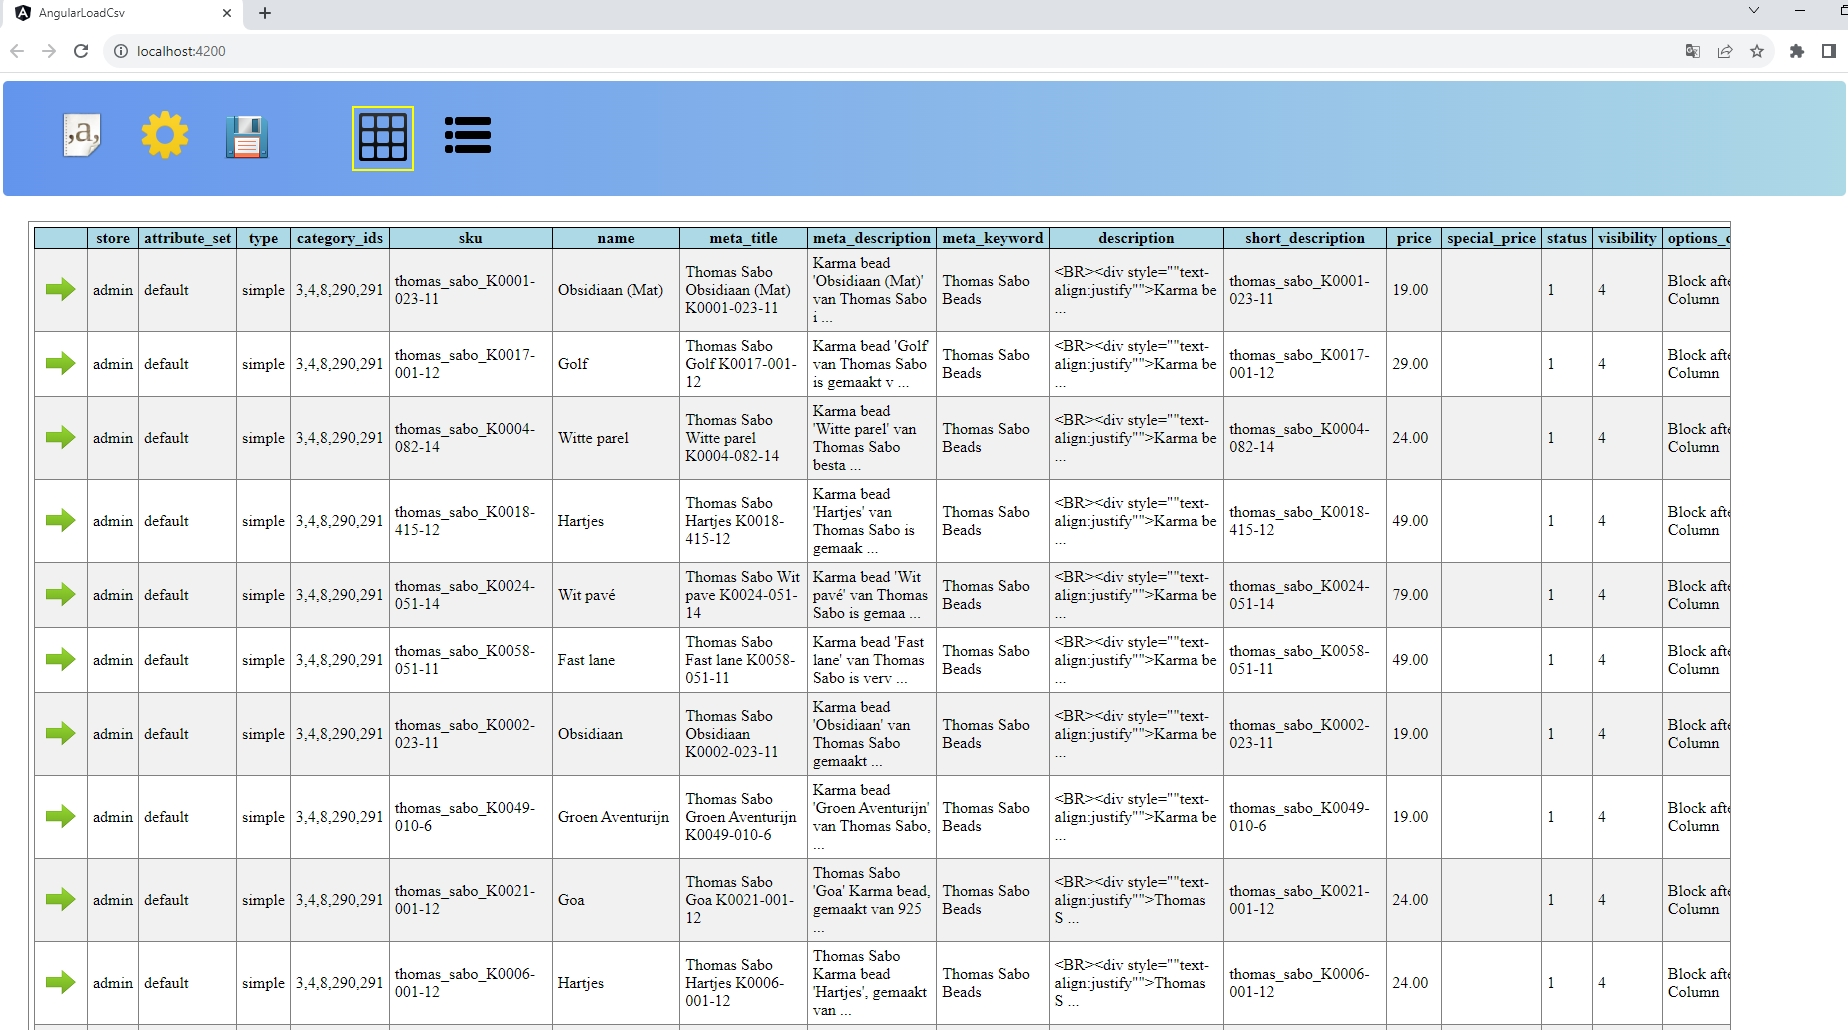
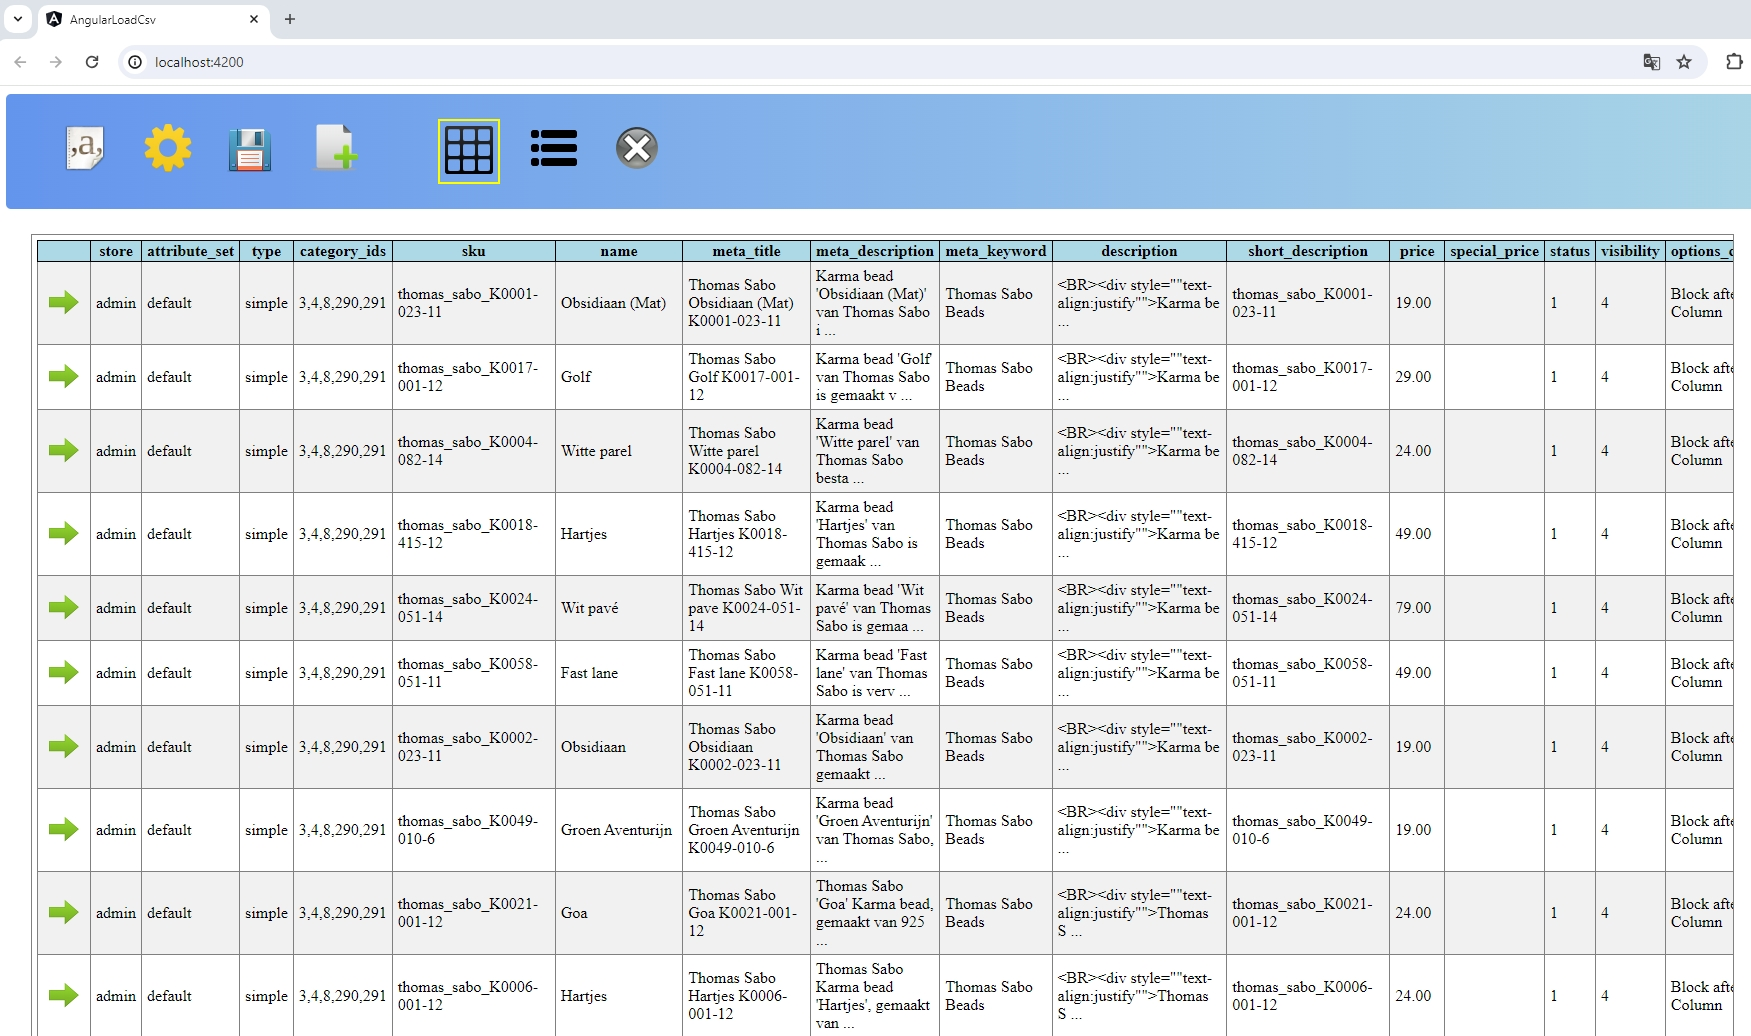
Create new csv-file and new iimages.

diff --git a/src/app/components/csv/csv-create-new/csv-create-new.component.ts b/src/app/components/csv/csv-create-new/csv-create-new.component.ts
@@ -1,0 +1,96 @@
+import { Component, OnInit } from '@angular/core';
+import { FormBuilder, FormGroup, UntypedFormGroup, Validators } from '@angular/forms';
+import { CsvHeaderInterface } from 'src/app/models/csv-headers';
+import { CsvApplicationService } from 'src/app/services/csv-application.service';
+import { CsvDataInterface } from 'src/app/models/csv-data';
+import { CsvErrors } from 'src/app/models/csv-errors';
+
+@Component({
+  selector: 'app-csv-create-new',
+  templateUrl: './csv-create-new.component.html',
+  styleUrl: './csv-create-new.component.css'
+})
+export class CsvCreateNewComponent implements OnInit {
+
+  headerForm: UntypedFormGroup = new FormGroup({});
+  recordsForm: UntypedFormGroup = new FormGroup({});
+
+  headers: CsvHeaderInterface[] = [];
+
+  constructor(
+    private fb: FormBuilder,
+    private csvApplicationService: CsvApplicationService
+  ) {}
+
+  ngOnInit(): void {
+    this.headerForm = this.fb.group({
+      header: ['', Validators.required],
+      defaultValue: ['']
+    });
+
+    this.recordsForm = this.fb.group({
+      amount: [1, [Validators.required, Validators.min(1)]]
+    });
+  }
+
+  addHeader() : void {
+    if(this.headerForm.valid) {
+      let header: CsvHeaderInterface = {
+        header: this.headerForm.get('header')?.value, 
+        defaultValue: this.headerForm.get('defaultValue')?.value 
+      };
+
+      this.headers.push(header);
+    } else {
+      this.headerForm.markAllAsTouched();
+    }
+  }
+
+  removeHeader(index: number) : void {
+    this.headers.splice(index, 1);
+  }
+
+  createCsv() : void {
+    if(this.recordsForm.valid && this.headers.length > 0) {
+      const amount = parseInt(this.recordsForm.get('amount')?.value ?? 0);
+
+      if(amount == 0) {
+        alert('Amount can\'t be lower or equal to 0.');
+        return;
+      }
+
+      const csvFile: CsvDataInterface = {
+        fileName: 'my_custom_csv.csv',
+        totalLines: amount,
+        headers: this.getHeaders(),
+        columns: this.getColumns(amount),
+        columnsDefault: this.getColumns(amount),
+        columnLength: this.getHeaders().length,
+        errors: new CsvErrors(false, [])
+      }
+
+      this.csvApplicationService.setCreatenew(csvFile);
+    } else {
+      this.recordsForm.markAllAsTouched();
+    }
+  }
+
+  private getHeaders() : string[] {
+    let arr: string[] = [];
+
+    this.headers.forEach(item => arr.push(item.header));
+
+    return arr;
+  }
+
+  private getColumns(amount: number) : string[] {
+    let arr: string[] = [];
+
+    for(let i = 0; i < amount; i++) {
+      this.headers.forEach(item => arr.push(item.defaultValue));
+    }
+
+    return arr;
+  }
+
+}

diff --git a/src/app/components/csv/csv-main/csv-main.component.ts b/src/app/components/csv/csv-main/csv-main.component.ts
@@ -14,6 +14,7 @@ import { CsvDataInterface } from 'src/app/models/csv-data';
 export class CsvMainComponent implements OnInit {  
   
   public isCsvFileOpened: WritableSignal<boolean> = signal(false);
+  public createNewFile: WritableSignal<boolean> = signal(false); 
 
   public csvSettings: CsvSettings = new CsvSettings();
 
@@ -30,12 +31,24 @@ export class CsvMainComponent implements OnInit {
         this.saveCsvFile(data);
       }
     });
+
+    this.csvApplicationService.getCreateNew().subscribe({
+      next: (data) => {
+        this.createNewFile.set(false);
+        this.csvApplicationService.setCurrentMode(true);
+        this.csvApplicationService.setAllData(data);
+        this.csvApplicationService.setErrors([]);
+        this.isCsvFileOpened.set(true);
+      }
+    });
   }
 
   getSelectedFile(file: File) : void {
+    this.createNewFile.set(false);
+
     this._loadCsv.loadCsvFile(file, this.csvSettings).subscribe({
       next: (csvData) => {
-        if(csvData) {
+        if(csvData) {          
           this.csvApplicationService.setCurrentMode(true);
       
           if(!csvData.errors.hasErrors) {
@@ -73,6 +86,16 @@ export class CsvMainComponent implements OnInit {
     this.csvApplicationService.setRequestDataToSave(true);
   }
 
+  closeFile() : void {    
+    this.csvApplicationService.setAllData(null);
+    this.csvApplicationService.setErrors([]);
+    this.isCsvFileOpened.set(false);
+  }
+
+  createNew() : void {
+    this.createNewFile.set(true);    
+  }
+
   private saveCsvFile(data: CsvDataInterface) : void {
     let output: string = this._createCsv.create(data.headers, data.columns, data.columnLength, this.csvSettings);
 
@@ -94,12 +117,6 @@ export class CsvMainComponent implements OnInit {
         document.body.removeChild(a);
         window.URL.revokeObjectURL(url);  
     }, 0);
-  }
-
-  closeFile() : void {    
-    this.csvApplicationService.setAllData(null);
-    this.csvApplicationService.setErrors([]);
-    this.isCsvFileOpened.set(false);
   }
 
 }

diff --git a/src/app/components/csv/csv-create-new/csv-create-new.component.html b/src/app/components/csv/csv-create-new/csv-create-new.component.html
@@ -1,0 +1,43 @@
+<div class="main-container">
+    <div class="add-header">
+        <h3>Create Headers:</h3>
+        <form [formGroup]="this.headerForm" (ngSubmit)="this.addHeader()">
+            <div class="w-33 pt-8">
+                <label for="">Header</label>
+                <input type="text" formControlName="header">
+            </div>
+            <div class="w-33 pt-8">
+                <label for="">Default value</label>
+                <input type="text" formControlName="defaultValue">
+            </div>
+            <div class="w-33">
+                <app-button-with-image type="submit" imageSource="assets/images/add.png" [imageText]="'Add Header'"></app-button-with-image>
+            </div>
+        </form>
+        <div class="header-container" *ngIf="this.headers.length > 0">
+            <div class="row" *ngFor="let header of this.headers; let index = index">
+                <div class="w-33 pt-8">
+                    {{ header.header }}
+                </div>
+                <div class="w-33 pt-8">
+                    {{ header.defaultValue }}
+                </div>
+                <div>
+                    <app-button-with-image type="submit" imageSource="assets/images/remove.png" [imageText]="'Remove Header'" (buttonAction)="this.removeHeader(index)"></app-button-with-image>
+                </div>
+            </div>
+        </div>
+    </div>
+    <div class="amount-of-records" *ngIf="this.headers.length > 0">
+        <h3>Set amount of Records:</h3>
+        <form [formGroup]="recordsForm" (ngSubmit)="this.createCsv()">
+            <div class="w-33 pt-8">
+                <label for="">Records</label>
+                <input type="number" formControlName="amount" min="1" value="1">
+            </div>
+            <div class="w-33">
+                <app-button-with-image type="submit" imageSource="assets/images/ok_alt.png" [imageText]="'Create new CSV'"></app-button-with-image>
+            </div>
+        </form>
+    </div>
+</div>

diff --git a/src/app/app.module.ts b/src/app/app.module.ts
@@ -1,6 +1,8 @@
 //Modules
 import { NgModule } from '@angular/core';
 import { BrowserModule } from '@angular/platform-browser';
+import { FormsModule } from '@angular/forms';
+import { ReactiveFormsModule } from '@angular/forms';
 
 //Services
 import { CsvApplicationService } from './services/csv-application.service';
@@ -17,6 +19,7 @@ import { CsvSettingsComponent } from './components/csv/csv-settings/csv-settings
 import { CsvChangePopupComponent } from './components/csv/csv-change-popup/csv-change-popup.component';
 import { CsvViewModeComponent } from './components/csv/csv-view-mode/csv-view-mode.component';
 import { ScrollToTopComponent } from './components/general/scroll-to-top/scroll-to-top.component';
+import { CsvCreateNewComponent } from './components/csv/csv-create-new/csv-create-new.component';
 
 @NgModule({
   declarations: [
@@ -30,10 +33,13 @@ import { ScrollToTopComponent } from './components/general/scroll-to-top/scroll-
     CsvSettingsComponent,
     CsvChangePopupComponent,
     CsvViewModeComponent,
-    ScrollToTopComponent
+    ScrollToTopComponent,
+    CsvCreateNewComponent
   ],
   imports: [
-    BrowserModule
+    BrowserModule,
+    FormsModule,
+    ReactiveFormsModule
   ],
   providers: [
     CsvApplicationService

diff --git a/src/app/components/csv/csv-main/csv-main.component.html b/src/app/components/csv/csv-main/csv-main.component.html
@@ -29,6 +29,14 @@
                 [isDisabled]="!this.isCsvFileOpened()">        
             </app-button-with-image> 
         </div>
+        <div class="csvMenuItem">
+            <app-button-with-image
+                imageText="Create new CSV File"
+                imageSource="/assets/images/create_new.png"
+                (buttonAction)="createNew()"
+                [isDisabled]="this.isCsvFileOpened()">        
+            </app-button-with-image> 
+        </div>
         <app-csv-view-mode *ngIf="this.isCsvFileOpened()"></app-csv-view-mode>
         @if(isCsvFileOpened()) {
             <div class="csvMenuItem" >
@@ -42,6 +50,7 @@
     </div>
     <div class="csvContent">
         <app-csv-content></app-csv-content>
+        <app-csv-create-new *ngIf="this.createNewFile()"></app-csv-create-new>
     </div>    
 </div>
 <app-scroll-to-top></app-scroll-to-top>

diff --git a/src/app/services/csv-application.service.ts b/src/app/services/csv-application.service.ts
@@ -10,9 +10,9 @@ export class CsvApplicationService {
   private _updateGridOrListMode: Subject<boolean> = new Subject<boolean>();
   private _requestDataToSave: Subject<boolean> = new Subject<boolean>();
   private _errors: Subject<string[]> = new Subject<string[]>();
-
   private _allData: Subject<CsvDataInterface | null> = new Subject<CsvDataInterface | null>();
   private _saveData: Subject<CsvDataInterface> = new Subject<CsvDataInterface>();
+  private _createNew: Subject<CsvDataInterface> = new Subject<CsvDataInterface>();
 
   constructor() { }
 
@@ -54,6 +54,14 @@ export class CsvApplicationService {
 
   getErrors() : Subject<string[]> {
     return this._errors;
+  }
+
+  setCreatenew(data: CsvDataInterface) : void {
+    this._createNew.next(data);
+  }
+
+  getCreateNew() : Subject<CsvDataInterface> {
+    return this._createNew;
   }
 
 }

diff --git a/src/app/components/csv/csv-create-new/csv-create-new.component.css b/src/app/components/csv/csv-create-new/csv-create-new.component.css
@@ -1,0 +1,56 @@
+.main-container {
+    width: 100%;
+    position: relative;
+}
+
+.add-header {
+    margin-top: 16px;
+    width: 50%;
+    position: relative;
+    float: left;
+}
+
+.amount-of-records {
+    margin-top: 16px;
+    width: 40%;
+    position: relative;
+    float: left;
+}
+
+.w-33 {
+    width: 33%;
+    position: relative;
+    float: left;
+}
+
+div.w-33 label {
+    margin-right: 4px;
+}
+
+.pt-8 {
+    padding-top: 8px;
+}
+
+.header-container {
+    padding-left: 8px;
+    width: 50%;
+    position: relative;
+    float: left;
+    clear: left;
+}
+
+.row {
+    width: inherit;
+    position: relative;
+}
+
+.ng-invalid .ng-touched {
+    border: 1px solid red;
+}
+
+input {
+    border: 1px dotted darkgrey;
+    border-radius: 5px;
+    padding: 4px;
+    height: 1.25rem;
+}

diff --git a/src/app/components/csv/csv-change-popup/csv-change-popup.component.html b/src/app/components/csv/csv-change-popup/csv-change-popup.component.html
@@ -11,7 +11,7 @@
       </div>
       <div class="csvChangeValues">
         <label for="textarea">Change Value for: <b>{{ this.csvHeaderToApplyChangeOn }}</b></label>
-        <textarea class="csvChangeValuesTextarea" id="textarea" name="textarea" rows="5" cols="60" [value]="this.csvValueToChange" #currentTextarea></textarea>
+        <textarea class="csvChangeValuesTextarea" id="textarea" name="textarea" rows="5" cols="60" [value]="this.csvValueToChange" #currentTextarea autofocus></textarea>
       </div>
       <div class="csvChangeButtonContainer">
         <div class="csvChangeButtonLeft">

diff --git a/src/app/components/csv/csv-change-popup/csv-change-popup.component.css b/src/app/components/csv/csv-change-popup/csv-change-popup.component.css
@@ -1,10 +1,11 @@
 .csvChangeContainer {
-    position: absolute;
-    top: -5%;
+    display: block;
+    position: fixed;
+    top: 0;
     left: 0;
-    z-index: 50;        
-    width: 105%;
-    height: 105%;
+    z-index: 50;       
+    width: 100%;
+    height: 100%; 
     background-color: rgba(0, 0, 0, 0.8);
 }
 
@@ -60,4 +61,5 @@
 
 .csvChangeValuesTextarea {
     width: 100%;
+    padding: 8px;
 }

diff --git a/src/app/components/csv/csv-change-popup/csv-change-popup.component.ts b/src/app/components/csv/csv-change-popup/csv-change-popup.component.ts
@@ -20,7 +20,7 @@ export class CsvChangePopupComponent {
 
   constructor() {}
 
-  showPopup(value: boolean) : void {
+  showPopup(value: boolean) : void {    
     this.isPopupVisible = value;
     this.callBackPopupIsClosed.emit(value);
   }

diff --git a/src/app/models/csv-headers.ts b/src/app/models/csv-headers.ts
@@ -1,0 +1,4 @@
+export interface CsvHeaderInterface {
+    header: string;
+    defaultValue: string;
+}
